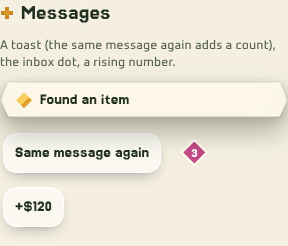
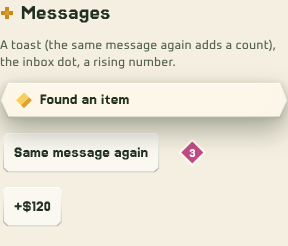
Every page button onto the kit's button shape (UI-5, the look changes): .pb, the button the older screens build, is in the button family (four small cuts) and a gold .pb, a screen's main action, is the long hexagon, both from uiTheme.json through ui-kit.css; the 1 px edge line along the outline repl
Claude-Session: https://claude.ai/code/session_01HWaF284FErGYL2zk9SLS7P

diff --git a/game/css/ui-kit.css b/game/css/ui-kit.css
@@ -313,14 +313,23 @@ hr.pb-rule::after {
   --k-clip: var(--clip-tab);
   --k-edge: var(--edge-tab);
 }
-:where(.k-panel, .k-card, .k-btn, .k-action, .k-tab) {
+/* every page button (.pb) is in the button family, and a gold one, a screen's main action, is the long hexagon */
+.pb {
+  --k-clip: var(--clip-button);
+  --k-edge: var(--edge-button);
+}
+.pb.gold {
+  --k-clip: var(--clip-action);
+  --k-edge: var(--edge-action);
+}
+:where(.k-panel, .k-card, .k-btn, .k-action, .k-tab, .pb) {
   position: relative;
 }
-:is(.k-panel, .k-card, .k-btn, .k-action, .k-tab):not(#k) {
+:is(.k-panel, .k-card, .k-btn, .k-action, .k-tab, .pb):not(#k) {
   border-radius: 0;
   clip-path: var(--k-clip);
 }
-:is(.k-panel, .k-card, .k-btn, .k-action, .k-tab):not(.k-plain, #k)::after {
+:is(.k-panel, .k-card, .k-btn, .k-action, .k-tab, .pb):not(.k-plain, #k)::after {
   content: '';
   display: block;
   position: absolute;

diff --git a/game/css/v05.css b/game/css/v05.css
@@ -155,13 +155,13 @@ html[data-contrast='high'] .px {
 
 /* ---------- buttons: rounded, lit from above, press in ---------- */
 .pb {
-  border-radius: 14px !important;
+  /* UI-5: its outline is the kit's button family (ui-kit.css); the edge line along it replaces the border */
   font-family: var(--font-voice) !important;
   font-weight: 600;
   letter-spacing: 0.01em;
   background: var(--g-bg2) !important;
   color: var(--text);
-  border: 1px solid var(--g-bd) !important;
+  border: 0 !important;
   box-shadow:
     var(--g-in),
     0 6px 14px -6px rgba(46, 33, 64, 0.45) !important;
@@ -169,9 +169,6 @@ html[data-contrast='high'] .px {
     transform 0.14s var(--spring),
     box-shadow 0.2s,
     filter 0.2s;
-}
-.pb::after {
-  display: none !important;
 }
 .pb.gold {
   background: linear-gradient(var(--gold-a), var(--gold-b)) !important;
